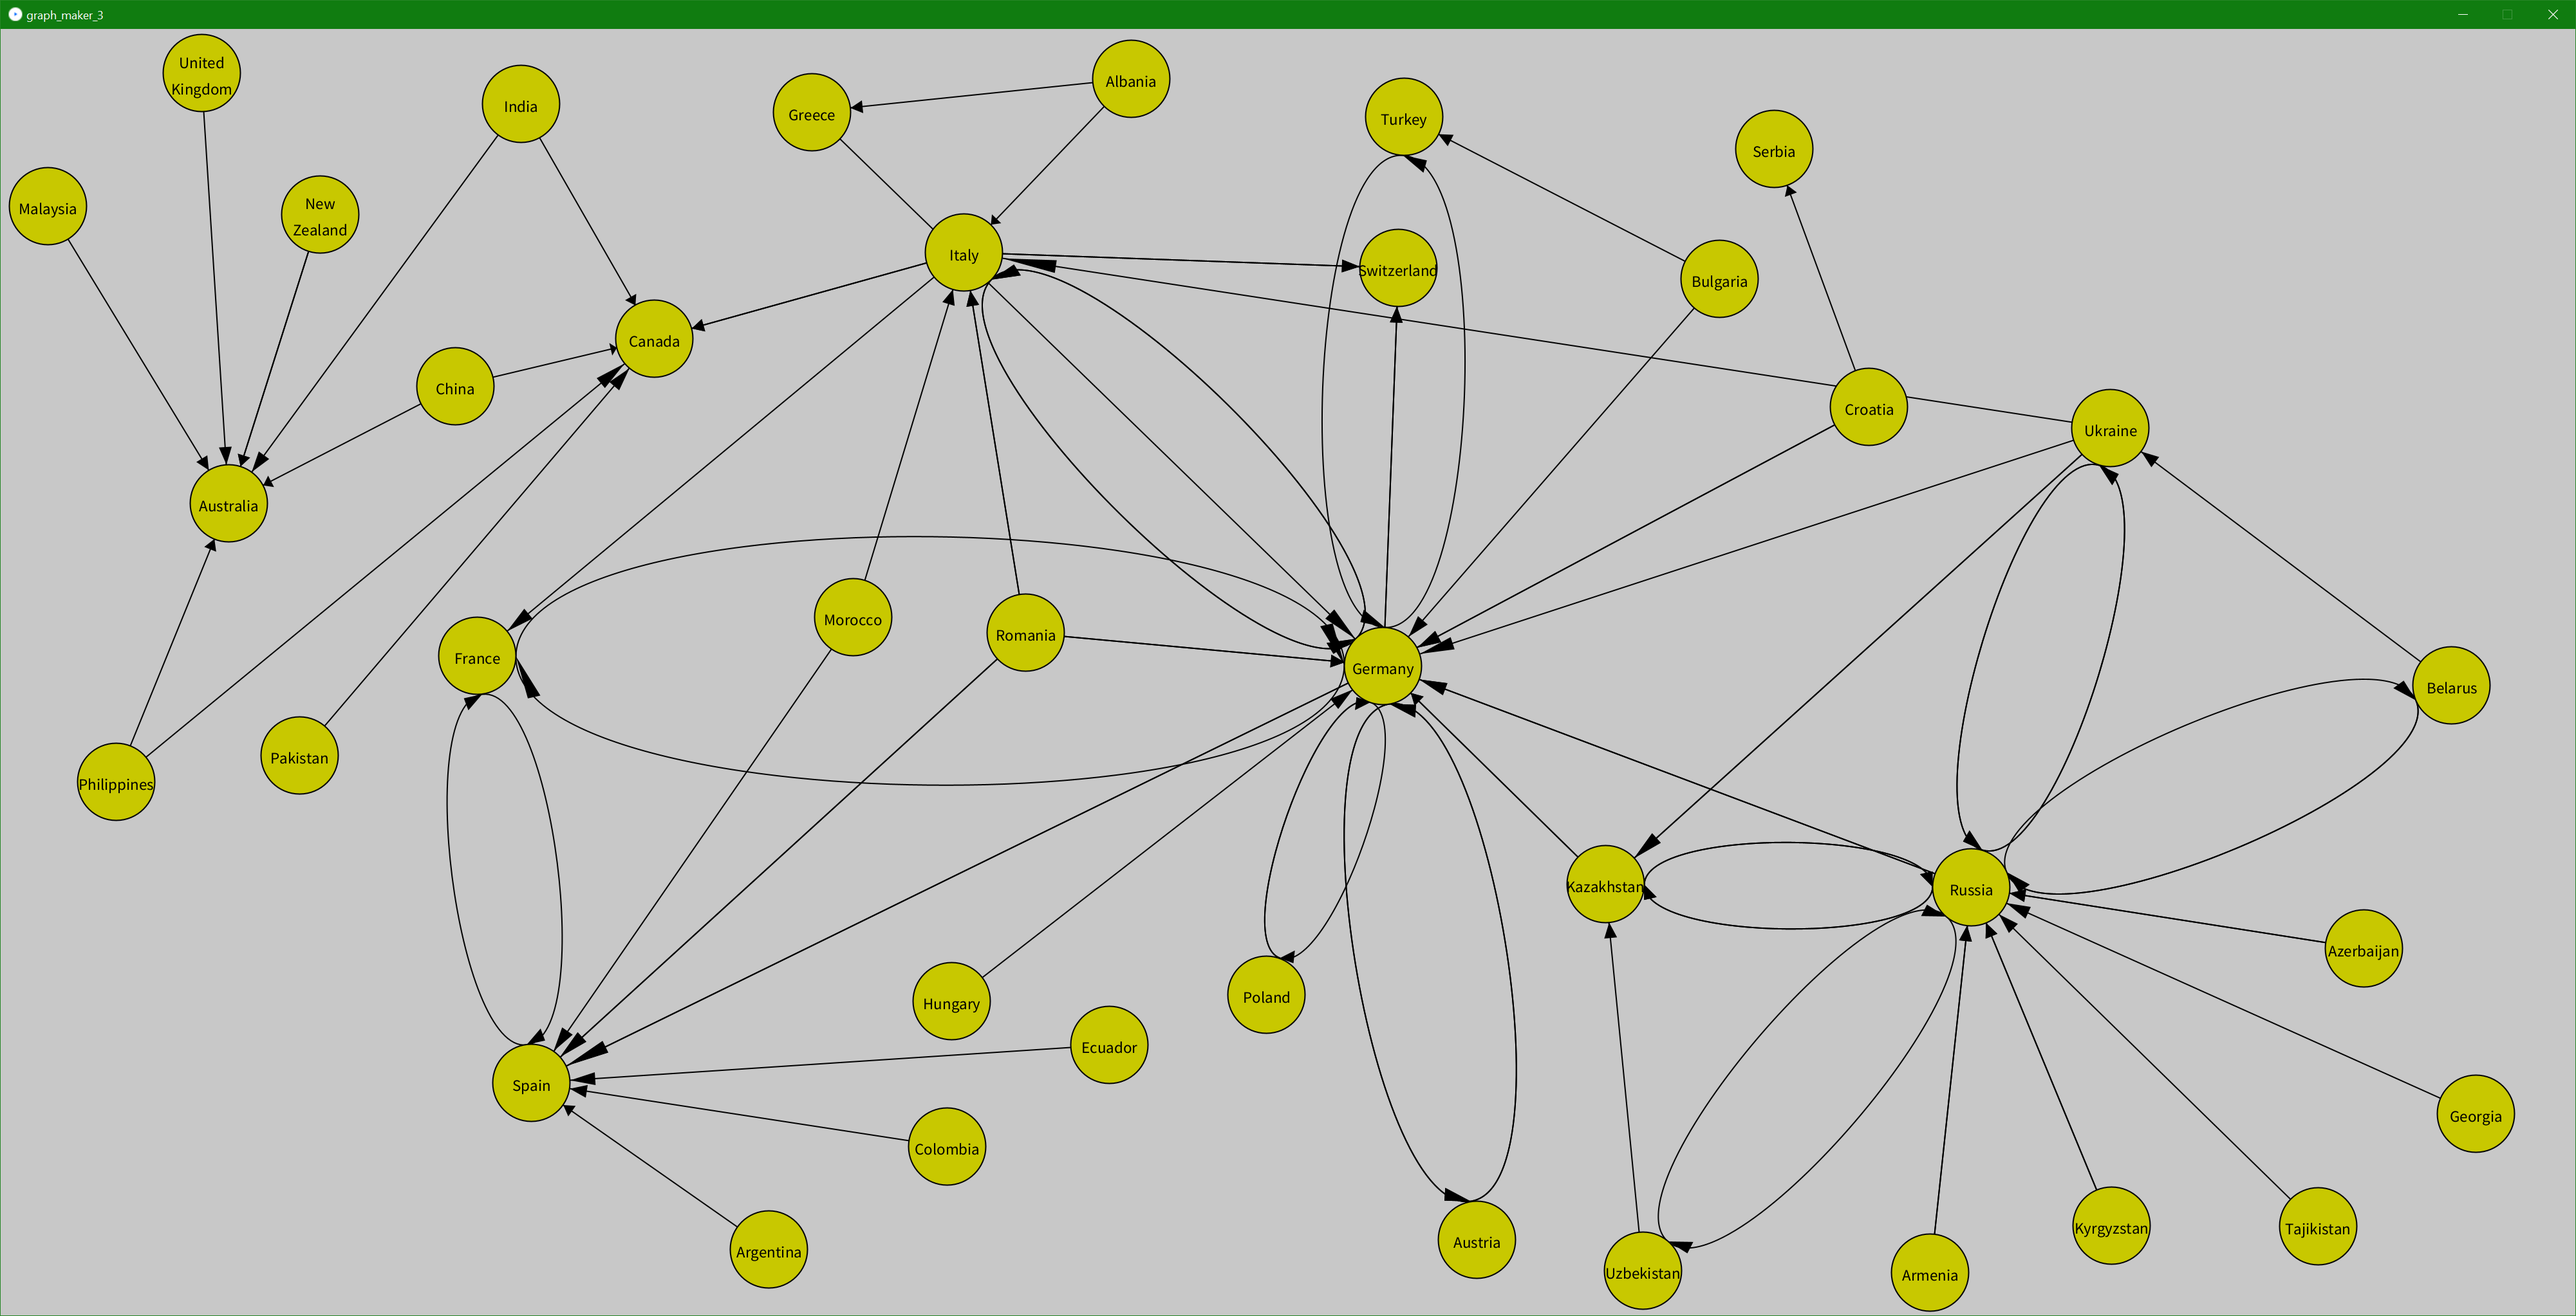
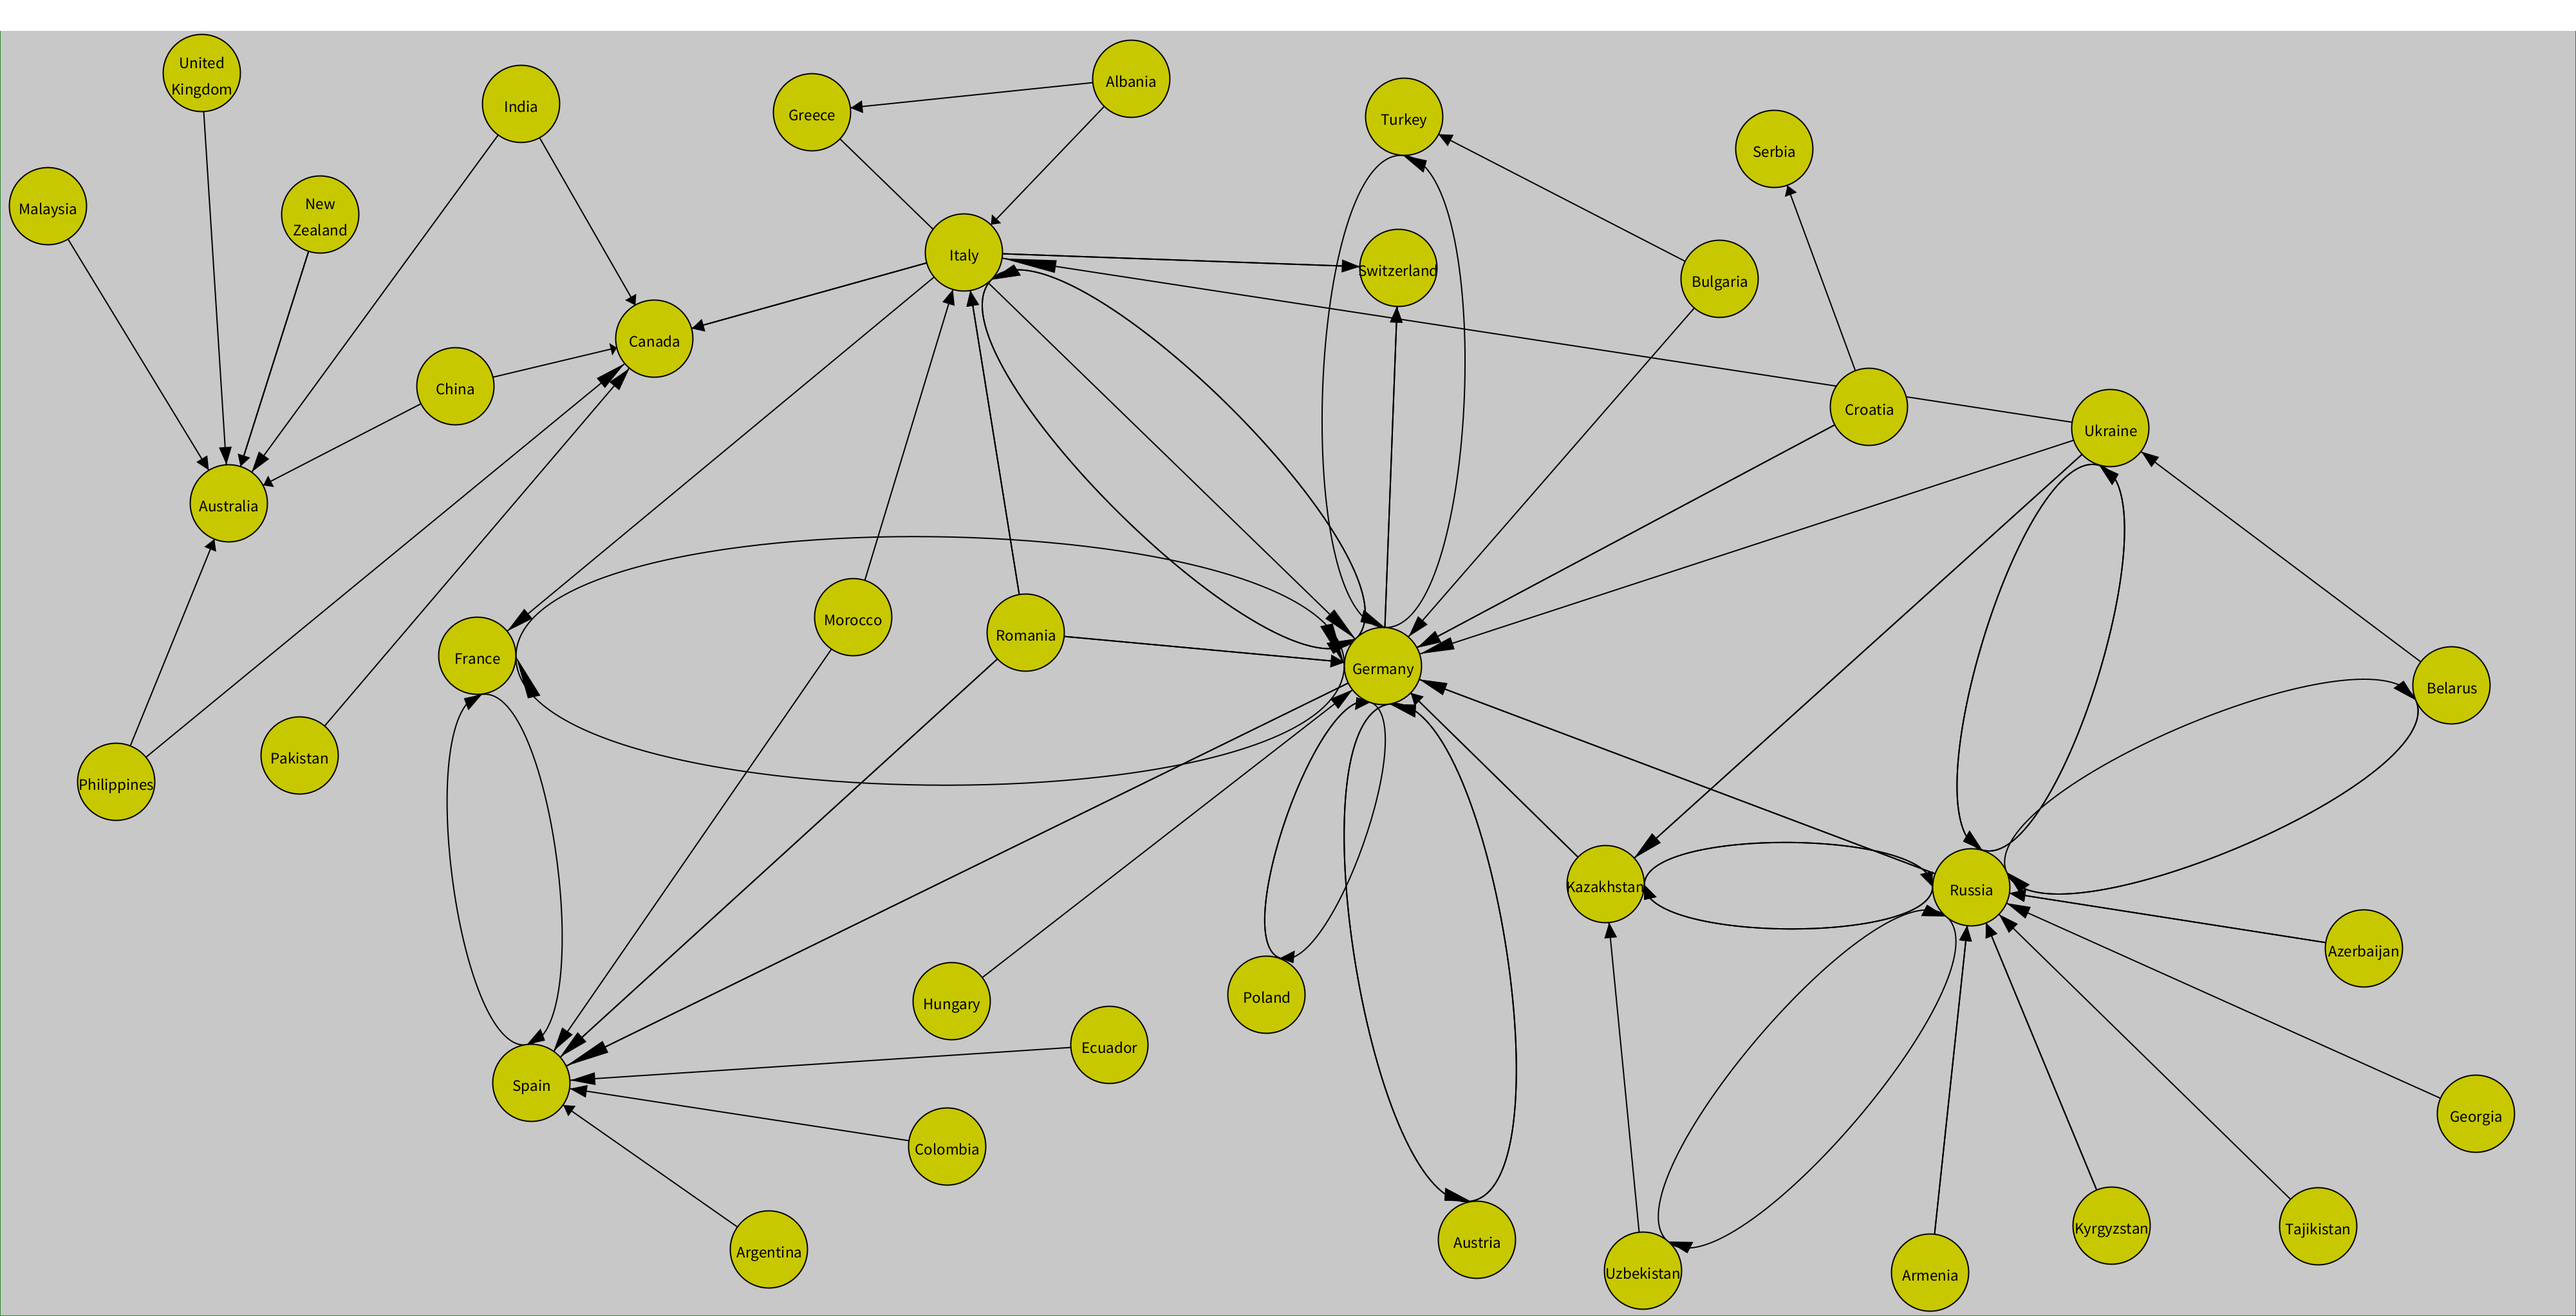
Adjust parameters so that migration data is mult by 41 rather than 365

Changed region(s): [[0.0, 0.0, 1.0, 0.0308]]

diff --git a/src/shapes.js b/src/shapes.js
@@ -1,7 +1,7 @@
 import { colours, manualIntervals, radianPerDay, radianPerMonth, shapes, themeColours, pinSize, abbreviatedMonths } from "./constants";
 import { fillColourGradient, getManualIntervalColour, fillLogColourGradient, getCovidIntervalColour, setColour } from "./helpers/colours";
 
-export const getShapeSize = (selections, shape, numLocations = 1) => {
+export const getShapeSize = (selections, shape, dataLength, numLocations = 1) => {
     if (shape === shapes.SPIRAL.id) {
         const topRadius = getRadius(selections)
         const bottomRadius = getRadiusAtDay(365 / 2, selections)
@@ -12,7 +12,7 @@ export const getShapeSize = (selections, shape, numLocations = 1) => {
 
         return { width: leftRadius + rightRadius, height: topRadius + bottomRadius, maxRadius: topRadius, area: spiralArea, rightRadius: rightRadius }
     } else if (shape === shapes.ROW.id) {
-        const { rowWidth, pinHeight } = getRowSize(selections, numLocations)
+        const { rowWidth, pinHeight } = getRowSize(selections, dataLength)
 
         return { width: rowWidth, height: pinHeight, area: rowWidth * pinHeight }
     }
@@ -47,8 +47,8 @@ export const getGraphRadius = (selections, numSections) => {
         + selections.spiralWidth / 2
 }
 
-export const getRowSize = (selections) => {
-    const daysPerRow = 365
+export const getRowSize = (selections, daysPerRow) => {
+    //const daysPerRow = 365
     const dayWidth = selections.dayWidth
     const rowWidth = daysPerRow * dayWidth
     const rowHeight = selections.rowHeight
@@ -95,7 +95,7 @@ export const row = (
 ) => {
     const { numColours, mapPin, opaque, dayWidth, theme, rowHeight, fillMissing, cluster, spaceBetween } = selections
     const colourTheme = themeColours[theme]
-    const { width, height } = getShapeSize(selections, shapes.ROW.id)
+    const { width, height } = getShapeSize(selections, shapes.ROW.id, 365)
     const startX = x - width / 2
     const startY = mapPin ? y - height - pinSize : y - height / 2
     let baseline = startY + height
@@ -197,7 +197,7 @@ export const migrationRow = (
     numLocations,) => {
     const { numColours, mapPin, opaque, dayWidth, theme, rowHeight, fillMissing, cluster, spaceBetween } = selections
     const colourTheme = themeColours[theme]
-    const { width, height } = getShapeSize(selections, shapes.ROW.id)
+    const { width, height } = getShapeSize(selections, shapes.ROW.id, locationData.length)
     const startX = x - width / 2
     const startY = mapPin ? y - height - pinSize : y - height / 2
     let baseline = startY + height
@@ -205,6 +205,8 @@ export const migrationRow = (
     const middle = baseline - (interval.range / 2 * increment)
 
     //console.log("int ", interval)
+
+    console.log("y" , startY)
 
 
 
@@ -635,7 +637,7 @@ export const spiral = (
     const { spiralWidth, spiralTightness, coreSize, mapPin, opaque, theme, numColours, fillMissing, cluster } = selections
     const colourTheme = themeColours[theme]
     const increment = spiralWidth / interval.range
-    const { maxRadius } = getShapeSize(selections, shapes.SPIRAL.id)
+    const { maxRadius } = getShapeSize(selections, shapes.SPIRAL.id, 365)
     const startX = x
     const startY = mapPin ? y - pinSize - maxRadius : y
     let angle = -Math.PI / 2
@@ -752,7 +754,7 @@ export const spiralOutline = (
 ) => {
     const { spiralWidth, spiralTightness, coreSize, theme } = selections
     const colourTheme = themeColours[theme]
-    const { maxRadius } = getShapeSize(selections, shapes.SPIRAL.id)
+    const { maxRadius } = getShapeSize(selections, shapes.SPIRAL.id, 365)
     const startX = x
     const startY = y
     let angle = -Math.PI / 2

diff --git a/src/Overlay.jsx b/src/Overlay.jsx
@@ -26,7 +26,7 @@ const Overlay = ({ encoding, selections, shape, mapWidth, mapHeight }) => {
     const [locationPins, setLocationPins] = useState([])
     const [detailed, setDetailed] = useState([])
     const [hover, setHover] = useState(null)
-    const { width, height, maxRadius } = getShapeSize(selections, shape)
+    const { width, height, maxRadius } = getShapeSize(selections, shape, 365)
 
     useEffect(() => {
         if (locations && p5) {
@@ -65,7 +65,7 @@ const Overlay = ({ encoding, selections, shape, mapWidth, mapHeight }) => {
 
     const drawDetailedRect = (x, y, id, detailedSelections) => {
         let locationData = getLocationData(id, selections, data)
-        const { rowWidth, pinHeight } = getRowSize(detailedSelections, 1)
+        const { rowWidth, pinHeight } = getRowSize(detailedSelections, 365)
         const startX = x - rowWidth / 2;
         const startY = y - pinHeight / 2
 
@@ -270,7 +270,8 @@ const Overlay = ({ encoding, selections, shape, mapWidth, mapHeight }) => {
             dayWidth: 0.25,
         }
 
-        const { pinHeight } = getRowSize(newSelections, detailed.length, newSelections.numYears)
+        // const { pinHeight } = getRowSize(newSelections, detailed.length, newSelections.numYears)
+        const { pinHeight } = getRowSize(newSelections, 365)
         const locationHeight = pinHeight + 30
 
         p5.fill(colourTheme.background)

diff --git a/src/helpers/cluster.js b/src/helpers/cluster.js
@@ -58,7 +58,7 @@ export const addLocations = (locations, selections, shape, mapPin, map) => {
     const locationPins = []
 
     locations.forEach((item, index) => {
-        let {width, height} = getShapeSize(selections, shape)
+        let {width, height} = getShapeSize(selections, shape, 365)
         const location = map.latLngToContainerPoint([item.x, item.y])
         locationPins.push({
             x: location.x,
@@ -95,8 +95,8 @@ export const calculateClusters = (locations, selections, shape, mapPin, map) => 
                     spiralTightness
                 }
             } else if (shape === shapes.ROW.id) {
-                let { dayWidth, rowHeight } = getRowSize(selections, numLocations, selections.numYears)
-
+                // let { dayWidth, rowHeight } = getRowSize(selections, numLocations, selections.numYears)
+                let { dayWidth, rowHeight } = getRowSize(selections, 365)
                 newSelections = {
                     ...selections,
                     dayWidth,

diff --git a/src/MigrationGraph.jsx b/src/MigrationGraph.jsx
@@ -30,6 +30,7 @@ const MigrationGraph = ({ encoding, selections, shape }) => {
     
         p.setup = () => {
             p.createCanvas(canvasWidth, canvasHeight);
+            console.log(canvasWidth, canvasHeight)
             p.textAlign(p.CENTER, p.CENTER);
             p.noLoop();
         };
@@ -49,7 +50,7 @@ const MigrationGraph = ({ encoding, selections, shape }) => {
         .range([0, 1799.3]);
 
         const yScale = scaleLinear()
-        .domain([0, 2046])
+        .domain([0, 1990])
         .range([0, 1205.55]);
 
         Object.keys(data).forEach(id => {
@@ -66,7 +67,6 @@ const MigrationGraph = ({ encoding, selections, shape }) => {
                 height,
             }
         });
-
         setPts(newPts);
     }
 

diff --git a/src/legend.js b/src/legend.js
@@ -293,7 +293,7 @@ export const drawSpiralLegend = (p5, legendWidth, legendHeight, selections, brac
     const lowString = formatNumbers(brackets.displayLow || brackets.low)
     const highString = formatNumbers(brackets.displayHigh || brackets.high)
     selections = { ...selections, ['coreSize']: 0, ['spiralWidth']: 20 }
-    const { rightRadius, maxRadius, width, height } = getShapeSize(selections, shapes.SPIRAL.id)
+    const { rightRadius, maxRadius, width, height } = getShapeSize(selections, shapes.SPIRAL.id, 365)
 
     const startX = encoding === 1 || encoding === 3 ? legendWidth * 0.33 : legendWidth / 2
     const startY = legendHeight / 2

diff --git a/src/ScatterPlot.jsx b/src/ScatterPlot.jsx
@@ -23,7 +23,7 @@ const ScatterPlot = ({ encoding, selections, shape }) => {
     const { theme, numColours, numYears, mapPin } = selections
     const colourTheme = themeColours[theme]
     const [p5, setP5] = useState(null)
-    const { width, height, maxRadius } = getShapeSize(selections, shape)
+    const { width, height, maxRadius } = getShapeSize(selections, shape, 365)
     const [pts, setPts] = useState({})
     const [hover, setHover] = useState(null)
     const interval = getManualInterval(dataBrackets, numColours, dataType)

diff --git a/src/Comparison.jsx b/src/Comparison.jsx
@@ -15,7 +15,7 @@ const Comparison = ({ selections, shape, encoding, x, y }) => {
     const yOptions = options[y].values
 
     const getSizeString = (xval, yval) => {
-        const {width, height} = getShapeSize({ ...selections, [x]: xval, [y]: yval }, shape)
+        const {width, height} = getShapeSize({ ...selections, [x]: xval, [y]: yval }, shape, 365)
 
         return `width: ${Math.round(width)}  height: ${Math.round(height)}`
     }

diff --git a/src/MultiComparison.jsx b/src/MultiComparison.jsx
@@ -6,7 +6,7 @@ import { shapes, encodings } from './constants'
 
 const MultiComparison = ({ selections }) => {
     const getSizeString = (shape) => {
-        const { width, height, area } = getShapeSize(selections, shape)
+        const { width, height, area } = getShapeSize(selections, shape, 365)
 
         return `width: ${Math.round(width)}  height: ${Math.round(height)} area: ${Math.round(area)}`
     }

diff --git a/src/helpers/mapCanvas.js b/src/helpers/mapCanvas.js
@@ -11,7 +11,7 @@ export const getGlyph = (p5, pin, data, dataType, interval, shape, selections, e
     pg.clear()
     pg.noStroke()
 
-    console.log("data ", data)
+    // console.log("data ", data)
 
     let locationData = []
     const ids = pin.locations
